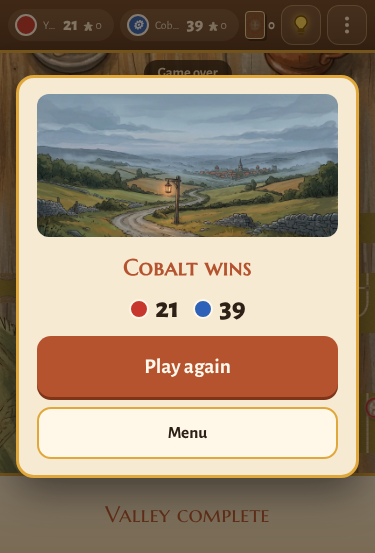
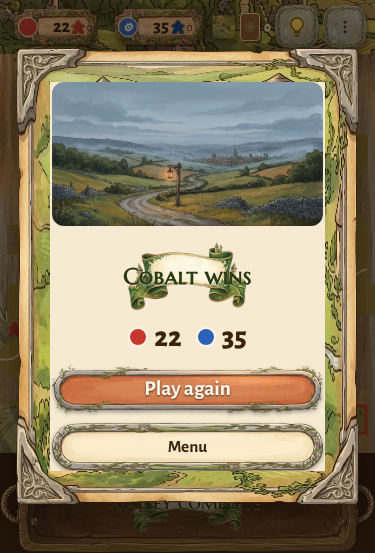
Rampart & Vine live: painted pieces, score pills, tray, kit and ribbon

diff --git a/games/rampart-and-vine/index.html b/games/rampart-and-vine/index.html
@@ -197,6 +197,109 @@ button{font:inherit;color:inherit;cursor:pointer}
 @keyframes gxt-shake{0%,100%{transform:translateX(0)}18%{transform:translateX(-7px)}40%{transform:translateX(6px)}60%{transform:translateX(-4px)}80%{transform:translateX(3px)}}
 @media (prefers-reduced-motion:reduce){.gxt-ring,.gxt-bub.gxt-shake{animation:none}}
 @media (max-height:620px){.gxt-endc{gap:6px;padding:12px 14px}.gxt-ek{display:none}.gxt-et{font-size:19px}.gxt-b{min-height:44px}.gxt-top{height:30px}}
+/* ===== GX skin: painted UI kit over the shared shell + campaign classes. Opt-in: nothing changes until gx-skin.js adds
+   html.sk (after the kit files loaded). Kit files live in the game's media/ (ui-topbar, ui-iconbtn, ui-panel, ui-drawer-head,
+   ui-button-cream/go/power, ui-row, ui-bubble, ui-node-*). Extra switches: html.sk-icons (icon-*.webp set), html.sk-map (story-map.webp),
+   html.sk-stars (ui-star-*), html.sk-banner (ui-act-banner), html.sk-dark (dark panels: light ink). Game colours: --sk-ink, --sk-num, --sk-num-done. ===== */
+html.sk{--gx-bar-h:48px;--sk-ink:#3a2410;--sk-num:#3a2205;--sk-num-done:#fff4d6;--sk-cream:#fbefd6}
+html.sk-dark{--sk-ink:#f3e9ff;--sk-num:#241044;--sk-num-done:#f6e9ff}
+/* top bar + icon buttons */
+html.sk .gx-bar{background:url(media/ui-topbar.webp) left center/auto 100% repeat-x #241208;color:var(--sk-cream);box-shadow:0 3px 8px rgba(0,0,0,.45)}
+html.sk .gx-ibtn,html.sk .gxc-ib{border:10px solid transparent;border-image:url(media/ui-iconbtn.webp) 34 fill/10px stretch;border-radius:0;background:none;box-shadow:none;min-width:44px;min-height:44px;padding:0 2px;color:var(--sk-cream);filter:drop-shadow(0 2px 2px rgba(0,0,0,.45));font-size:12px}
+html.sk .gxc-ib{border:0 solid transparent;border-width:0 22px;border-image:url(media/ui-button-power-c.webp) 0 42 fill/0 22px stretch;padding:0 2px;font-weight:700;text-shadow:0 1px 2px rgba(0,0,0,.6)}
+html.sk .gx-ibtn:active,html.sk .gxc-ib:active{transform:translateY(1px)}
+html.sk .gx-ibtn[aria-expanded=true]{filter:drop-shadow(0 0 6px #ffd36a)}
+html.sk .gx-ibtn>span{padding:0 4px}
+html.sk .gx-ibtn i[data-ic],html.sk .gx-ibtn .sk-ic{width:24px;height:24px;display:inline-block}
+html.sk-icons .gx-ibtn i[data-ic] svg{display:none}
+html.sk-icons i[data-ic]{background:center/contain no-repeat}
+/* popups: parchment panel (9-slice) with a wooden title strip */
+html.sk .gx-drawer{background:none;border:34px solid transparent;border-image:url(media/ui-panel-c.webp) 100 fill/34px stretch;border-radius:0;box-shadow:none;filter:drop-shadow(0 14px 26px rgba(0,0,0,.55));box-sizing:border-box;color:var(--sk-ink)}
+html.sk .gx-drawer-head{background:url(media/ui-drawer-head.webp) center/auto 100% repeat-x #3a2210;color:var(--sk-cream);border:0;border-radius:6px;margin:-6px -6px 6px;padding:6px 6px 6px 12px;box-shadow:0 2px 5px rgba(0,0,0,.4)}
+html.sk .gx-drawer-head h2{text-shadow:0 2px 3px rgba(0,0,0,.7);font-size:1.1rem}
+html.sk .gx-drawer .gx-x{color:var(--sk-cream);font-size:1.8rem}
+html.sk .gx-drawer-body{padding:4px 4px 12px}
+/* campaign kit */
+html.sk .gxc-btn,html.sk .gxc-btn.soft,html.sk .gxc-btn.ghost{border:0 solid transparent;border-width:0 24px;border-image:url(media/ui-button-cream-c.webp) 0 42 fill/0 22px stretch;border-radius:0;background:none;box-shadow:none;min-height:48px;min-width:100px;padding:0 4px;color:var(--sk-ink);filter:drop-shadow(0 2px 2px rgba(0,0,0,.4));text-shadow:none}
+html.sk .gxc-btn.go{border-image-source:url(media/ui-button-go-c.webp);color:#fff8ec;text-shadow:0 1px 2px rgba(0,0,0,.65);box-shadow:none}
+html.sk .gxc-btn.go:active{transform:translateY(2px);box-shadow:none}
+html.sk .gxc-sheet,html.sk .gxc-scene,html.sk .gxc-boss,html.sk .gxc-res{background:none;border:34px solid transparent;border-image:url(media/ui-panel-c.webp) 100 fill/34px stretch;border-radius:0;box-shadow:none;filter:drop-shadow(0 14px 26px rgba(0,0,0,.55));padding:0 2px;color:var(--sk-ink);box-sizing:border-box}
+html.sk .gxc-sheet{padding-bottom:calc(0px + env(safe-area-inset-bottom,0px))}
+html.sk-dark .gxc-sheet,html.sk-dark .gxc-scene,html.sk-dark .gxc-boss,html.sk-dark .gxc-res{--gxc-ink:#f3e9ff;--gxc-dim:rgba(243,233,255,.75)}
+html.sk .gxc-boss{border-color:transparent}
+html.sk .gxc-head{background:url(media/ui-topbar.webp) left center/auto 100% repeat-x #241208;min-height:52px}
+/* story map nodes: painted medallions, the number (text) sits in the centre */
+html.sk .gxc-node{width:68px;height:68px}
+html.sk .gxc-disc{width:68px;height:68px;border:0;border-radius:0;background:url(media/ui-node-open.webp) center/contain no-repeat;box-shadow:none;color:var(--sk-num);text-shadow:0 1px 0 rgba(255,255,255,.45);font-size:22px;filter:drop-shadow(0 4px 4px rgba(0,0,0,.35))}
+html.sk .gxc-node.a2 .gxc-disc,html.sk .gxc-node.a3 .gxc-disc{background-color:transparent;background-image:url(media/ui-node-open.webp)}
+html.sk .gxc-node.won .gxc-disc,html.sk .gxc-node.won.a2 .gxc-disc,html.sk .gxc-node.won.a3 .gxc-disc{background-image:url(media/ui-node-done.webp);color:var(--sk-num-done);text-shadow:0 1px 2px rgba(0,0,0,.7)}
+html.sk .gxc-node.locked .gxc-disc,html.sk .gxc-node.locked.a2 .gxc-disc,html.sk .gxc-node.locked.a3 .gxc-disc{background-image:url(media/ui-node-locked.webp);filter:drop-shadow(0 3px 3px rgba(0,0,0,.35));opacity:1;color:transparent}
+html.sk .gxc-node.boss .gxc-disc,html.sk .gxc-node.boss.a2 .gxc-disc,html.sk .gxc-node.boss.a3 .gxc-disc{background-image:url(media/ui-node-boss.webp);width:74px;height:74px;margin:-8px 0 0 0;box-shadow:none}
+html.sk .gxc-node.boss .gxc-disc::after,html.sk .gxc-lock{display:none}
+html.sk .gxc-node.boss .gxc-disc .gxc-pt{width:34px!important;height:34px!important;margin-top:8px}
+html.sk .gxc-node.next .gxc-disc{animation:sk-pulse 1.6s ease-in-out infinite}
+@keyframes sk-pulse{0%,100%{filter:drop-shadow(0 4px 4px rgba(0,0,0,.35)) drop-shadow(0 0 0 rgba(255,214,90,.9))}50%{filter:drop-shadow(0 4px 4px rgba(0,0,0,.35)) drop-shadow(0 0 9px rgba(255,214,90,.95))}}
+html.sk .gxc-lab{font-size:12.5px;background:rgba(246,230,194,.94);color:#2a1d10}
+html.sk .gxc-node .gxc-stars{top:56px}
+html.sk-map .gxc-path{background:url(media/story-map.webp) center top/100% 100% no-repeat}
+html.sk-map .gxc-road-edge,html.sk-map .gxc-road-fill{opacity:.55}
+html.sk-banner .gxc-act{background:none;border:0 solid transparent;border-width:0 26px;border-image:url(media/ui-act-banner-c.webp) 0 70 fill/0 26px stretch;left:6px;right:6px;height:46px;margin-top:0;filter:drop-shadow(0 2px 3px rgba(0,0,0,.4))}
+html.sk-banner .gxc-act b,html.sk-banner .gxc-act small{color:#fbefd6;text-shadow:0 1px 2px rgba(0,0,0,.8);opacity:1}
+html.sk-stars .gxc-st{font-size:0;width:15px;height:15px;background:url(media/ui-star-off.webp) center/contain no-repeat}
+html.sk-stars .gxc-st.on{background-image:url(media/ui-star-on.webp);text-shadow:none}
+html.sk-stars .gxc-stars.big .gxc-st{width:48px;height:48px}
+html.sk-stars .gxc-node .gxc-st{width:13px;height:13px}
+/* speech bubble behind the story-scene line (tail flipped up toward the speaker) */
+html.sk .gxc-sc-text{position:relative;isolation:isolate;padding:30px 42px 24px;margin:14px 0 10px}
+html.sk .gxc-sc-text::before{content:'';position:absolute;inset:-8px -14px;z-index:-1;background:url(media/ui-bubble-c.webp) center/100% 100% no-repeat;transform:scaleY(-1)}
+@media (prefers-reduced-motion:reduce){html.sk .gxc-node.next .gxc-disc{animation:none}}
+
+/* ===== Rampart & Vine skin (facelift): painted kit over the drawn UI. html.sk is set by gx-skin.js once the kit files loaded; every rule falls back to the old CSS without it. ===== */
+html.sk{--sk-ink:#3a2410}
+/* painted followers in the player's own colour (no disc behind them) */
+.pc.pp{background:none;box-shadow:none}
+.fglow .pc.pp{box-shadow:none}
+.seat .fi{width:1.2em;height:1.2em;object-fit:contain;display:block}
+/* top strip: carved oak bar, name-peg pills for the seats */
+html.sk #top{background:url(media/ui-topbar.webp) left center/auto 100% repeat-x #2b1a0d;border-bottom:0;box-shadow:0 3px 8px rgba(0,0,0,.45);min-height:52px;gap:4px}
+html.sk .seat{border:0 solid transparent;border-width:0 14px 0 40px;border-image:url(media/ui-score-pill.webp) 0 26 0 64 fill/0 14px 0 40px stretch;border-radius:0;background:none;color:#3a2410;min-height:40px;padding:0 2px 0 0;gap:5px;position:relative;filter:drop-shadow(0 2px 2px rgba(0,0,0,.45))}
+html.sk .seat.cur{background:none;filter:drop-shadow(0 0 5px var(--c)) drop-shadow(0 0 2px #fff6d8) drop-shadow(0 2px 2px rgba(0,0,0,.45))}
+html.sk .seat .dot{position:absolute;left:-30px;top:50%;translate:0 -50%;width:20px;height:20px;border-width:1.5px;font-size:11px}
+html.sk .seat .nm{opacity:1;color:#3a2410;font-weight:800;max-width:6ch}
+html.sk .seat b{color:#2a1608}
+html.sk .seat .fl{opacity:1;color:#3a2410}
+html.sk .seat.bump b{animation:bump .6s}
+html.sk #left{color:#fbecd2;font-weight:800;gap:4px}
+html.sk #left .plain{display:none}
+html.sk #left::before{content:'';width:24px;height:24px;background:url(media/icon-tile.webp) center/contain no-repeat;filter:drop-shadow(0 1px 1px rgba(0,0,0,.6))}
+html.sk #menubtn,html.sk #bulbbtn{width:44px;height:44px;border:10px solid transparent;border-image:url(media/ui-iconbtn.webp) 34 fill/10px stretch;border-radius:0;background:none;color:#3a2410;filter:drop-shadow(0 2px 2px rgba(0,0,0,.45));box-sizing:border-box}
+html.sk #menubtn svg{width:16px;height:16px}
+html.sk #bulbbtn{color:#3a2410}
+/* the tile tray */
+html.sk #app{background:#2b1a0d}
+html.sk #hand{background:none;border-top:0;border-style:solid;border-color:transparent;border-width:0 38px;border-image:url(media/ui-tray-c.webp) 0 70 fill/0 38px stretch;padding:8px 0 calc(9px + env(safe-area-inset-bottom));color:#f6ead2;filter:drop-shadow(0 -3px 5px rgba(0,0,0,.35));min-height:100px}
+html.sk #hinfo{color:#f6ead2}
+html.sk #hinfo .big{color:#2a3a14;font-size:1.35rem;padding:20px 54px;background:url(media/ui-ribbon.webp) center/100% 100% no-repeat;text-shadow:0 1px 0 rgba(255,255,255,.5)}
+html.sk #htile{border-radius:6px}
+html.sk #htile .rot{right:-1px;bottom:-1px;width:34px;height:34px;border-radius:0;background:url(media/ui-rotate-btn.webp) center/contain no-repeat;font-size:0;color:transparent;filter:drop-shadow(0 1px 2px rgba(0,0,0,.6))}
+/* buttons: terracotta / cream pills */
+html.sk .btn,html.sk #hskip{border:0 solid transparent;border-width:0 22px;border-image:url(media/ui-button-go-c.webp) 0 42 fill/0 22px stretch;border-radius:0;background:none;box-shadow:none;min-height:48px;padding:0 2px;color:#fff8ec;text-shadow:0 1px 2px rgba(0,0,0,.65);filter:drop-shadow(0 2px 2px rgba(0,0,0,.4));display:inline-flex;align-items:center;justify-content:center}
+html.sk .btn.alt{border-image-source:url(media/ui-button-cream-c.webp);color:#3a2410;text-shadow:none}
+html.sk .btn:active,html.sk #hskip:active{transform:translateY(2px)}
+html.sk #hskip.hintspot{filter:drop-shadow(0 0 6px #ffd24a) drop-shadow(0 0 3px #ffd24a)}
+html.sk .opt{border:0 solid transparent;border-width:0 20px;border-image:url(media/ui-button-cream-c.webp) 0 42 fill/0 20px stretch;border-radius:0;background:none;min-height:44px;color:#3a2410;padding:0 2px;filter:drop-shadow(0 1px 2px rgba(0,0,0,.35))}
+html.sk .opt[aria-pressed=true]{border-image-source:url(media/ui-button-power-c.webp);color:#f6ffe6;text-shadow:0 1px 2px rgba(0,0,0,.6)}
+/* panels: stone-cornered frame around a plain parchment centre (the painted centre of the panel is a map, so no 'fill') */
+html.sk .card,html.sk .menu,html.sk .gx-drawer,html.sk .gxc-sheet,html.sk .gxc-scene,html.sk .gxc-boss,html.sk .gxc-res{border:34px solid transparent;border-image:url(media/ui-panel-c.webp) 100/34px stretch;border-radius:0;background:var(--paper) padding-box;background-clip:padding-box;box-shadow:none;filter:drop-shadow(0 14px 26px rgba(0,0,0,.55));color:#3a2410;padding:0 2px;box-sizing:border-box}
+html.sk .card{max-width:392px}
+html.sk .menu{padding:0;min-width:230px}
+html.sk .menu button{min-height:46px}
+html.sk .card h1,html.sk .card h2{color:#8e3a1c}
+/* result: trophy on the painted end art, ribbon title */
+.endart{position:relative}
+html.sk .endart.win::after{content:'';position:absolute;right:6px;bottom:4px;width:64px;height:64px;background:url(media/ui-trophy.webp) center/contain no-repeat;filter:drop-shadow(0 3px 4px rgba(0,0,0,.6))}
+html.sk .card[aria-label=Result] h2,html.sk .gxc-res h2{background:url(media/ui-ribbon.webp) center/100% 100% no-repeat;padding:20px 44px;color:#2a3a14;text-shadow:0 1px 0 rgba(255,255,255,.5)}
+@media (max-width:420px){html.sk .seat .nm{max-width:5ch}}
 
 :root{--gxh-btn:#b5532f;--gxh-accent:#e0a83a;--gxh-bg:#f6ead2;--gxh-font:var(--ff)}</style>
 <style>
@@ -318,6 +421,7 @@ button{font:inherit;color:inherit;cursor:pointer}
 .gxc-boss-pers{margin:4px 0 8px;font-style:italic;font-size:16px;color:var(--gxc-dim)}
 /* ---- result ---- */
 .gxc-res-on.won{background:radial-gradient(100% 60% at 50% 25%,#6b5320 0%,var(--gxc-bg) 75%)}
+.gxc-res-on.has-art{background:linear-gradient(180deg,rgba(0,0,0,.4),rgba(0,0,0,.72)),var(--gxc-art) center/cover no-repeat}
 .gxc-res-k{font-size:12px;text-transform:uppercase;letter-spacing:.1em;color:var(--gxc-dim);font-weight:700}
 .gxc-res h2{margin:4px 0 6px;font-family:var(--gxc-head);font-size:28px}
 .gxc-quote{display:flex;gap:10px;align-items:center;text-align:left;width:100%;margin:12px 0 4px;padding:10px;border-radius:12px;background:rgba(60,38,14,.08)}
@@ -346,7 +450,7 @@ html.tbl #board{background:var(--tbl,url(media/table-default.webp)) center/cover
 .pile{display:none}
 html.cb #left .pile{display:block;width:20px;height:28px;border-radius:4px;background:var(--cb) center/cover;border:1.5px solid #f3dca0;box-shadow:2px 2px 0 rgba(0,0,0,.4)}
 html.cb #left .plain{display:none}
-.pc{display:block;width:100%;height:100%;border-radius:50%;background:radial-gradient(circle,rgba(255,250,235,.72) 0 56%,transparent 57%);box-shadow:0 0 0 2.5px var(--c);box-sizing:border-box}
+.pc{display:block;width:100%;height:100%;border-radius:50%;background:radial-gradient(circle,color-mix(in srgb,var(--c) 42%,#fff6e0) 0 56%,transparent 57%);box-shadow:0 0 0 2.5px var(--c);box-sizing:border-box}
 .pc img{display:block;width:100%;height:100%;object-fit:contain}
 .fglow .pc{box-shadow:0 0 0 2.5px var(--c)}
 html.ti .scrim:has(.card[aria-label=Start]){background:linear-gradient(rgba(30,18,8,.06),rgba(30,18,8,.18)),url(media/title.webp) center/cover no-repeat}
@@ -410,6 +514,29 @@ html.ti .scrim:has(.card[aria-label=Start]){background:linear-gradient(rgba(30,1
     if (window.ResizeObserver) new ResizeObserver(kick).observe(document.documentElement);
   }
   window.GXV = { watch: function (fn) { fns.push(fn); wire(); run(true); return fn; }, now: measure, poke: function () { run(true); } };
+})();
+
+</script>
+<script>
+/* GX skin loader: GXSK.init({dark:false, sets:{'sk-x':['file']}, icons:false, map:false, stars:false, banner:false}).
+   Preloads the kit files from media/ and, once the core ones loaded, adds html.sk (+ switches). Missing files = the old CSS stays. */
+(function () {
+  var H = document.documentElement, base = 'media/', core = ['ui-topbar', 'ui-iconbtn', 'ui-panel-c', 'ui-button-power-c', 'ui-drawer-head', 'ui-button-cream-c', 'ui-button-go-c', 'ui-node-open'];
+  function load(names, cb) { var n = names.length, ok = 0; if (!n) return cb(true); names.forEach(function (f) { var i = new Image(); i.onload = function () { ok++; if (!--n) cb(ok === names.length); }; i.onerror = function () { if (!--n) cb(false); }; i.src = base + f + '.webp'; }); }
+  window.GXSK = {
+    init: function (o) {
+      o = o || {}; var extra = [];
+      if (o.map) extra.push('story-map'); if (o.stars) extra.push('ui-star-on', 'ui-star-off'); if (o.banner) extra.push('ui-act-banner-c');
+      load(core, function (ok) {
+        if (!ok) return;
+        H.classList.add('sk'); if (o.dark) H.classList.add('sk-dark');
+        load(extra, function () { if (o.map) H.classList.add('sk-map'); if (o.stars) H.classList.add('sk-stars'); if (o.banner) H.classList.add('sk-banner'); });
+        if (o.icons) load(o.icons.map(function (k) { return 'icon-' + k; }), function () { H.classList.add('sk-icons'); });
+        if (o.sets) Object.keys(o.sets).forEach(function (cls) { load(o.sets[cls], function (k) { if (k) H.classList.add(cls); }); });
+        if (o.cb) o.cb();
+      });
+    }
+  };
 })();
 
 </script>
@@ -989,7 +1116,7 @@ html.ti .scrim:has(.card[aria-label=Start]){background:linear-gradient(rgba(30,1
 <script>
 // ===== GX campaign: story chapters, bosses and gradual difficulty (opt-in; see CAMPAIGN.md) =====
 // A new, self-contained module: it does not change shell.js or gx-kit.js, and works with or without them.
-//   GXC.init(opts)        wire a game: {game, data, startChapter, isWon, metrics, starsEarned, portrait, artBase, onExit, scores, seats}
+//   GXC.init(opts)        wire a game: {game, data, startChapter, isWon, metrics, starsEarned, portrait, artBase, endArt:{win,lose} (painted result-screen backgrounds), onExit, scores, seats}
 //   opts.headButtons()    optional: extra header buttons (elements) for the chapter map, e.g. "Replay tutorial"
 //   GXC.open()            the chapter map (the title's "Story" button)
 //   GXC.play(id)          intro scene -> boss card -> opts.startChapter(effective chapter)
@@ -1381,6 +1508,7 @@ html.ti .scrim:has(.card[aria-label=Start]){background:linear-gradient(rgba(30,1
     return new Promise(function (done) {
       if (!doc) return done('map');
       var def = r.def, s = screen('gxc-res-on ' + (r.won ? 'won' : 'lost')), box = el('div', 'gxc-res');
+      if (O && O.endArt) { var ea = r.won ? O.endArt.win : O.endArt.lose; if (ea) { s.parentNode.classList.add('has-art'); s.parentNode.style.setProperty('--gxc-art', 'url(' + ea + ')'); } }
       box.appendChild(el('div', 'gxc-res-k', def.title));
       box.appendChild(el('h2', null, r.won ? (def.boss ? 'Boss defeated!' : 'Chapter won!') : (def.goal.type === 'mission' || def.goal.type === 'survive' ? 'Mission failed' : 'Not this time')));
       var sr = starRow(r.stars, def.maxStars, 3); sr.classList.add('big'); box.appendChild(sr);
@@ -2750,7 +2878,7 @@ function placeOverlay(){placeGhost();const m=measure(),pad=14;const cell=UI.view
 function spotWorld(k,l){const T=G.tiles[k],[x,y]=unkey(k),sp=rotP(buildGeo(T.t).spots[l],T.r);return [x*100+sp[0],y*100+sp[1]]}
 function renderMeeples(){const live={};
   for(const f of G.figs){const id=f.s+f.k+f.p;live[id]=f;if(UI.mp[id])continue;const k=G.sk[f.s],l=G.sl[f.s],[wx,wy]=spotWorld(k,l);
-    const e=document.createElement('div');e.className='mp';e.style.setProperty('--c',PCOL[f.p]);e.innerHTML=pcHtml(FIGICON[f.k]);
+    const e=document.createElement('div');e.className='mp';e.style.setProperty('--c',PCOL[f.p]);e.innerHTML=pcHtml(FIGICON[f.k],f.p);
     addOv(e,wx,wy,{dx:f.k==='bld'||f.k==='pig'?10:0,dy:f.k==='bld'||f.k==='pig'?-8:0});UI.mp[id]=e}
   for(const id in UI.mp)if(!live[id]){const e=UI.mp[id];delete UI.mp[id];e.classList.add('gone');setTimeout(()=>e.remove(),520)}
   placeOverlay()}
@@ -2758,7 +2886,7 @@ function renderFigSpots(){for(const e of [...$('#ov').children])if(e.classList.c
   UI.figs=[];if(!myTurn('fig'))return;const p=sideToAct(),T=G.tiles[G.cur.k],moves=figMoves(p).filter(m=>m.act==='fig');
   const byL={};for(const m of moves)(byL[m.l]=byL[m.l]||[]).push(m);
   for(const l in byL){const [wx,wy]=spotWorld(G.cur.k,+l),ms=byL[l];
-    ms.forEach((m,i)=>{const b=document.createElement('button');b.className='fglow';b.style.setProperty('--c',PCOL[p]);b.innerHTML=pcHtml(FIGICON[m.k]);
+    ms.forEach((m,i)=>{const b=document.createElement('button');b.className='fglow';b.style.setProperty('--c',PCOL[p]);b.innerHTML=pcHtml(FIGICON[m.k],p);
       b.setAttribute('aria-label',`Place ${FIGN[m.k]} here`);b.addEventListener('click',()=>onFig(m));
       addOv(b,wx,wy,{dx:ms.length>1?(i-(ms.length-1)/2)*50:0});b._m=m;UI.figs.push(b)})}
   placeOverlay()}
@@ -2778,7 +2906,7 @@ function updateGhost(){const old=$('#ghost');if(old)old.remove();if(!hintOn()||!
     else{const [wx,wy]=spotWorld(G.cur.k,UI.hintFig.l);const b=UI.figs.find(q=>q._m.k===UI.hintFig.k&&q._m.l===UI.hintFig.l);if(b)b.classList.add('hintspot');showGhost(wx,wy,null,null,b?b._o.dx:0)}}}
 // ---------- top strip, hand, status ----------
 function renderTop(){const el=$('#seats');el.innerHTML=G.pl.map(p=>{const s=p.sup,cur=!G.over&&sideToAct()===p.i;
-    return `<div class="seat${cur?' cur':''}" style="--c:${PCOL[p.i]}" data-i="${p.i}"><i class="dot">${p.human?'':'&#9881;'}</i><span class="nm">${esc(seatName(p))}</span><b>${p.score}</b><span class="fl" title="followers left">${ico('meeple')}${s.f}${s.big?`${ico('champ')}`:''}${s.bld?`${ico('mason')}`:''}${s.pig?`${ico('hog')}`:''}</span>${p.goods.wine+p.goods.grain+p.goods.cloth?`<span class="fl" title="goods">${ico('wine')}${p.goods.wine+p.goods.grain+p.goods.cloth}</span>`:''}</div>`}).join('');
+    return `<div class="seat${cur?' cur':''}" style="--c:${PCOL[p.i]}" data-i="${p.i}"><i class="dot">${p.human?'':'&#9881;'}</i><span class="nm">${esc(seatName(p))}</span><b>${p.score}</b><span class="fl" title="followers left">${fi('meeple',p.i)}${s.f}${s.big?`${fi('champ',p.i)}`:''}${s.bld?`${fi('mason',p.i)}`:''}${s.pig?`${fi('hog',p.i)}`:''}</span>${p.goods.wine+p.goods.grain+p.goods.cloth?`<span class="fl" title="goods">${ico('wine')}${p.goods.wine+p.goods.grain+p.goods.cloth}</span>`:''}</div>`}).join('');
   $('#left').innerHTML=`<i class="pile"></i><svg class="plain" width="18" height="18" viewBox="0 0 24 24" fill="none" stroke="currentColor" stroke-width="2"><rect x="4" y="4" width="16" height="16" rx="3"/></svg><b>${tilesLeft()}</b>`}
 function bumpSeat(i){const e=document.querySelector(`.seat[data-i="${i}"]`);if(e){e.classList.remove('bump');void e.offsetWidth;e.classList.add('bump')}}
 function renderHand(){const h=$('#hand');const p=G.over?null:G.cur&&G.cur.p;
@@ -2925,7 +3053,7 @@ function campOpen(){if(typeof storyOpen==='function')storyOpen();else if(typeof 
 const MEDIA='media/',HR=document.documentElement;
 let PAINT_ON=true;try{PAINT_ON=localStorage.getItem('rv_paint')!=='0'}catch(e){}
 const PIMG={};
-function pimg(f,cb){if(PIMG[f]!==undefined){if(cb&&PIMG[f]===1)cb();return}PIMG[f]=0;const i=new Image();i.onload=()=>{PIMG[f]=1;if(cb)cb()};i.src=MEDIA+f+'.webp'}
+function pimg(f,cb){if(PIMG[f]!==undefined){if(cb&&PIMG[f]===1)cb();return}PIMG[f]=0;const i=new Image();i.onload=()=>{PIMG[f]=1;if(cb)cb()};i.src=(f.includes('/')?f:MEDIA+f)+'.webp'}
 function unl(t){try{const u=GXC.unlocked().filter(x=>x.type===t);return u.length?u[u.length-1].id:null}catch(e){return null}}
 // texture name -> [file, size of one repeat in tile units]
 const TEXD={field:60,road:30,river:40,lake:34,garden:20,hedge:20,hub:20,wall:25,mon:40,'town-basilica':50,town:50,roof:24};
@@ -2936,8 +3064,11 @@ function texApply(){TEXSET={};let any=false;
   el.innerHTML=any?`<svg width="0" height="0" style="position:absolute"><defs>${texDefs()}</defs></svg>`:'';
   if(typeof G!=='undefined'&&G&&typeof UI!=='undefined'){try{for(const k in UI.tl){const T=G.tiles[k];if(T)UI.tl[k].innerHTML=tileSvg(T.t,T.r)}UI.handKey=null;if(G.cur&&!G.over){renderHand();renderGlows()}}catch(e){}}}
 // pieces: painted figure on a player-coloured disc (seat chips keep the drawn icons: they are tiny and need the colour)
-const PCF={meeple:'piece-meeple',champ:'piece-champ',mason:'piece-mason',hog:'piece-hog'};
-function pcHtml(n){return PAINT_ON&&PIMG[PCF[n]]===1?`<span class="pc"><img src="${MEDIA}${PCF[n]}.webp" alt="" draggable="false"></span>`:ico(n)}
+const PCF={meeple:'models/piece-meeple@512',champ:'models/piece-champ@512',mason:'models/piece-mason@512',hog:'models/piece-hog@512'};   // 3D renders of the follower models (transparent, 3/4 view); the player colour is the disc behind them
+const COLN=['red','blue','yellow','green'];   // seats 0-3 have a painted piece in their own colour; seats 4-5 keep the model sprite on a disc
+function pcHtml(n,seat){const pf='piece-'+n+'-'+COLN[seat];if(PAINT_ON&&seat!==undefined&&PIMG[pf]===1)return`<span class="pc pp"><img src="${MEDIA}${pf}.webp" alt="" draggable="false"></span>`;
+  return PAINT_ON&&PIMG[PCF[n]]===1?`<span class="pc"><img src="${PCF[n]}.webp" alt="" draggable="false"></span>`:ico(n)}
+function fi(n,seat){const pf='piece-'+n+'-'+COLN[seat];return PAINT_ON&&PIMG[pf]===1?`<img class="fi" src="${MEDIA}${pf}.webp" alt="" draggable="false">`:ico(n)}
 const TABLES=['harvest','riverbank','sable-hall'],BACKS=['tavern','raven'];
 function paintApply(){
   HR.classList.toggle('ti',PAINT_ON&&PIMG['title']===1);
@@ -2947,9 +3078,10 @@ function paintApply(){
   const cb=unl('cardback'),cf=BACKS.includes(cb)?'back-'+cb:'back-default';
   if(PAINT_ON)pimg(cf,()=>HR.style.setProperty('--cb','url('+MEDIA+cf+'.webp)'));
   HR.classList.toggle('cb',PAINT_ON&&PIMG[cf]===1)}
-function paintBoot(){const all=Object.keys(TEXD).map(k=>'tex-'+k);let left=all.length;
+function paintBoot(){try{GXSK.init({})}catch(e){}
+  const all=Object.keys(TEXD).map(k=>'tex-'+k);let left=all.length;
   all.forEach(f=>pimg(f,()=>{if(--left===0)texApply()}));
-  ['title','title-phone','table-default','table-default-phone','back-default','end-win','end-lose','piece-meeple','piece-champ','piece-mason','piece-hog'].forEach(f=>pimg(f,paintApply));
+  [...Object.keys(PCF).flatMap(n=>COLN.map(c=>'piece-'+n+'-'+c)),'icon-follower','icon-tile','icon-score','ui-score-pill','ui-tray','ui-rotate-btn','ui-ribbon','ui-trophy','title','title-phone','table-default','table-default-phone','back-default','end-win','end-lose',...Object.values(PCF)].forEach(f=>pimg(f,paintApply));
   ['table-harvest','table-riverbank','table-sable-hall','back-tavern','back-raven'].forEach(f=>pimg(f));paintApply()}
 function paintToggle(){PAINT_ON=!PAINT_ON;try{localStorage.setItem('rv_paint',PAINT_ON?'1':'0')}catch(x){}texApply();paintApply()}
 // end banner on the result card and on the story result screen
@@ -2960,7 +3092,7 @@ new MutationObserver(()=>{const r=document.querySelector('.gxc-res-on .gxc-res')
 // ---------- music: five slots (Menu, Game, Last tiles, Victory, Defeat), two tracks each; choice a / b / shuffle / all / off ----------
 const MSLOTS=[['tavern','Menu'],['main','Game'],['fight','Last tiles'],['victory','Victory'],['defeat','Defeat']];
 const MTITLE={'tavern-a':'Lute of the Meadow Fair','tavern-b':'Hearthlight Jig','main-a':"The Mason's Morning",'main-b':'Lute and Limewash','fight-a':'Keep of Hours','fight-b':'Ramshackle Round','victory-a':"The Jester's Triumph",'victory-b':'Crown of Green Fields','defeat-a':'Wistful Vale','defeat-b':'Fading to Grey'};
-const MDEF={tavern:'a',main:'a',fight:'a',victory:'a',defeat:'a'};
+const MDEF={tavern:'all',main:'all',fight:'all',victory:'a',defeat:'a'};
 const MUS={pick:Object.assign({},MDEF),res:{},sh:{},want:null,wslot:null,prev:null,prevT:0,last:null,since:0};
 const MLOOPS=['tavern','main','fight'],MALL=Object.keys(MTITLE).filter(k=>MLOOPS.includes(k.split('-')[0])),MALL_MS=150000;
 try{Object.assign(MUS.pick,JSON.parse(localStorage.getItem('rv_mpick')||'{}'))}catch(e){}

diff --git a/games-src/WIRING-TODO.md b/games-src/WIRING-TODO.md
@@ -338,48 +338,7 @@ Generated from games/asset-viewer/flow.json (stage "pushed" = in games/<game>/me
 
 ## rampart-and-vine
 
-3D: piece-champ, piece-hog, piece-mason, piece-meeple
-
-| Wave / kind | File (media/…webp) | What it is |
-|---|---|---|
-| Wave 1 Wave 1 | `icon-follower` | a small hand-painted icon of a chunky wooden meeple, bold, readable at 24 px, single object, centred, plain fl |
-| Wave 1 Wave 1 | `icon-score` | a small hand-painted icon of a stone shield wrapped in a vine laurel, bold, readable at 24 px, single object,  |
-| Wave 1 Wave 1 | `icon-tile` | a small hand-painted icon of a square land tile with a green field and a road, seen from above, bold, readable |
-| Wave 1 Wave 1 | `piece-champ-blue` | a chunky painted wooden knight champion game piece in solid blue, front view, single object, centred, plain fl |
-| Wave 1 Wave 1 | `piece-champ-green` | a chunky painted wooden knight champion game piece in solid green, front view, single object, centred, plain f |
-| Wave 1 Wave 1 | `piece-champ-red` | a chunky painted wooden knight champion game piece in solid red, front view, single object, centred, plain fla |
-| Wave 1 Wave 1 | `piece-champ-yellow` | a chunky painted wooden knight champion game piece in solid yellow, front view, single object, centred, plain  |
-| Wave 1 Wave 1 | `piece-hog-blue` | a chunky painted wooden little pig game piece in solid blue, front view, single object, centred, plain flat wh |
-| Wave 1 Wave 1 | `piece-hog-green` | a chunky painted wooden little pig game piece in solid green, front view, single object, centred, plain flat w |
-| Wave 1 Wave 1 | `piece-hog-red` | a chunky painted wooden little pig game piece in solid red, front view, single object, centred, plain flat whi |
-| Wave 1 Wave 1 | `piece-hog-yellow` | a chunky painted wooden little pig game piece in solid yellow, front view, single object, centred, plain flat  |
-| Wave 1 Wave 1 | `piece-mason-blue` | a chunky painted wooden mason with a trowel game piece in solid blue, front view, single object, centred, plai |
-| Wave 1 Wave 1 | `piece-mason-green` | a chunky painted wooden mason with a trowel game piece in solid green, front view, single object, centred, pla |
-| Wave 1 Wave 1 | `piece-mason-red` | a chunky painted wooden mason with a trowel game piece in solid red, front view, single object, centred, plain |
-| Wave 1 Wave 1 | `piece-mason-yellow` | a chunky painted wooden mason with a trowel game piece in solid yellow, front view, single object, centred, pl |
-| Wave 1 Wave 1 | `piece-meeple-blue` | a chunky painted wooden meeple follower game piece in solid blue, front view, single object, centred, plain fl |
-| Wave 1 Wave 1 | `piece-meeple-green` | a chunky painted wooden meeple follower game piece in solid green, front view, single object, centred, plain f |
-| Wave 1 Wave 1 | `piece-meeple-red` | a chunky painted wooden meeple follower game piece in solid red, front view, single object, centred, plain fla |
-| Wave 1 Wave 1 | `piece-meeple-yellow` | a chunky painted wooden meeple follower game piece in solid yellow, front view, single object, centred, plain  |
-| Wave 1 Wave 1 | `ui-rotate-btn` | a round oak button with a carved curved arrow going round, iron rim, single object, centred, plain flat white  |
-| Wave 1 Wave 1 | `ui-trophy` | a small silver goblet with a vine wrapped around it, single object, centred, plain flat white background, no s |
-| Wave 1 Wave 1 (16:9) | `ui-ribbon` | a blank green-and-gold ribbon banner, centre empty, single object, centred, plain flat white background, no sh |
-| Wave 1 Wave 1 (16:9) | `ui-score-pill` | a blank wooden name-peg plaque with a small shield on the left, single object, centred, plain flat white backg |
-| Wave 1 Wave 1 (16:9) | `ui-tray` | a shallow oak tray with a leather lining and rope handles at the sides, seen from above, empty, single object, |
-| Wave 4 Wave 4 kit | `ui-bubble` | a blank speech-bubble panel made of parchment with a grey stone outline and a tiny curl at one corner, single  |
-| Wave 4 Wave 4 kit | `ui-bubble-tail` | a small pointed speech-bubble tail made of parchment with a grey stone outline, single object, centred, plain  |
-| Wave 4 Wave 4 kit | `ui-button-cream` | a blank wide horizontal pill-shaped button plate about three times wider than tall, cream with a grey stone ri |
-| Wave 4 Wave 4 kit | `ui-button-go` | a blank wide horizontal pill-shaped button plate about three times wider than tall, terracotta with a grey sto |
-| Wave 4 Wave 4 kit | `ui-button-power` | a blank wide horizontal pill-shaped button plate about three times wider than tall, meadow-green with a grey s |
-| Wave 4 Wave 4 kit | `ui-drawer-head` | a strip of carved oak with a vine inlay with a grey stone edge line, seamless left to right, empty, no text |
-| Wave 4 Wave 4 kit | `ui-iconbtn` | a blank round grey stone button with a vine green ring, centre empty, single object, centred, plain flat white |
-| Wave 4 Wave 4 kit | `ui-node-boss` | a round grey stone medallion with a vine green ring, centre blank, larger with a small crown on top, single ob |
-| Wave 4 Wave 4 kit | `ui-node-done` | a round grey stone medallion with a vine green ring, centre blank, with a small laurel at the bottom, single o |
-| Wave 4 Wave 4 kit | `ui-node-locked` | a round grey stone medallion with a vine green ring, centre blank, dull and darkened with a small padlock at t |
-| Wave 4 Wave 4 kit | `ui-node-open` | a round grey stone medallion with a vine green ring, centre blank, bright and polished, single object, centred |
-| Wave 4 Wave 4 kit | `ui-panel` | a parchment panel with ornate grey stone corners and a thin grey stone border, the whole centre plain and empt |
-| Wave 4 Wave 4 kit | `ui-row` | a blank wide strip of parchment with a thin grey stone edge and a small vine green diamond at the left end, ce |
-| Wave 4 Wave 4 kit | `ui-topbar` | a long strip of carved oak with a vine inlay, seamless left to right, empty, no text |
+WIRED and live 13 Oct 2026 (all 2D files: per-colour pieces, icons, score pill, tray, rotate button, ribbon, trophy, Wave 4 kit). 3D models: other worker.
 
 ## shipwreck-isle
 
